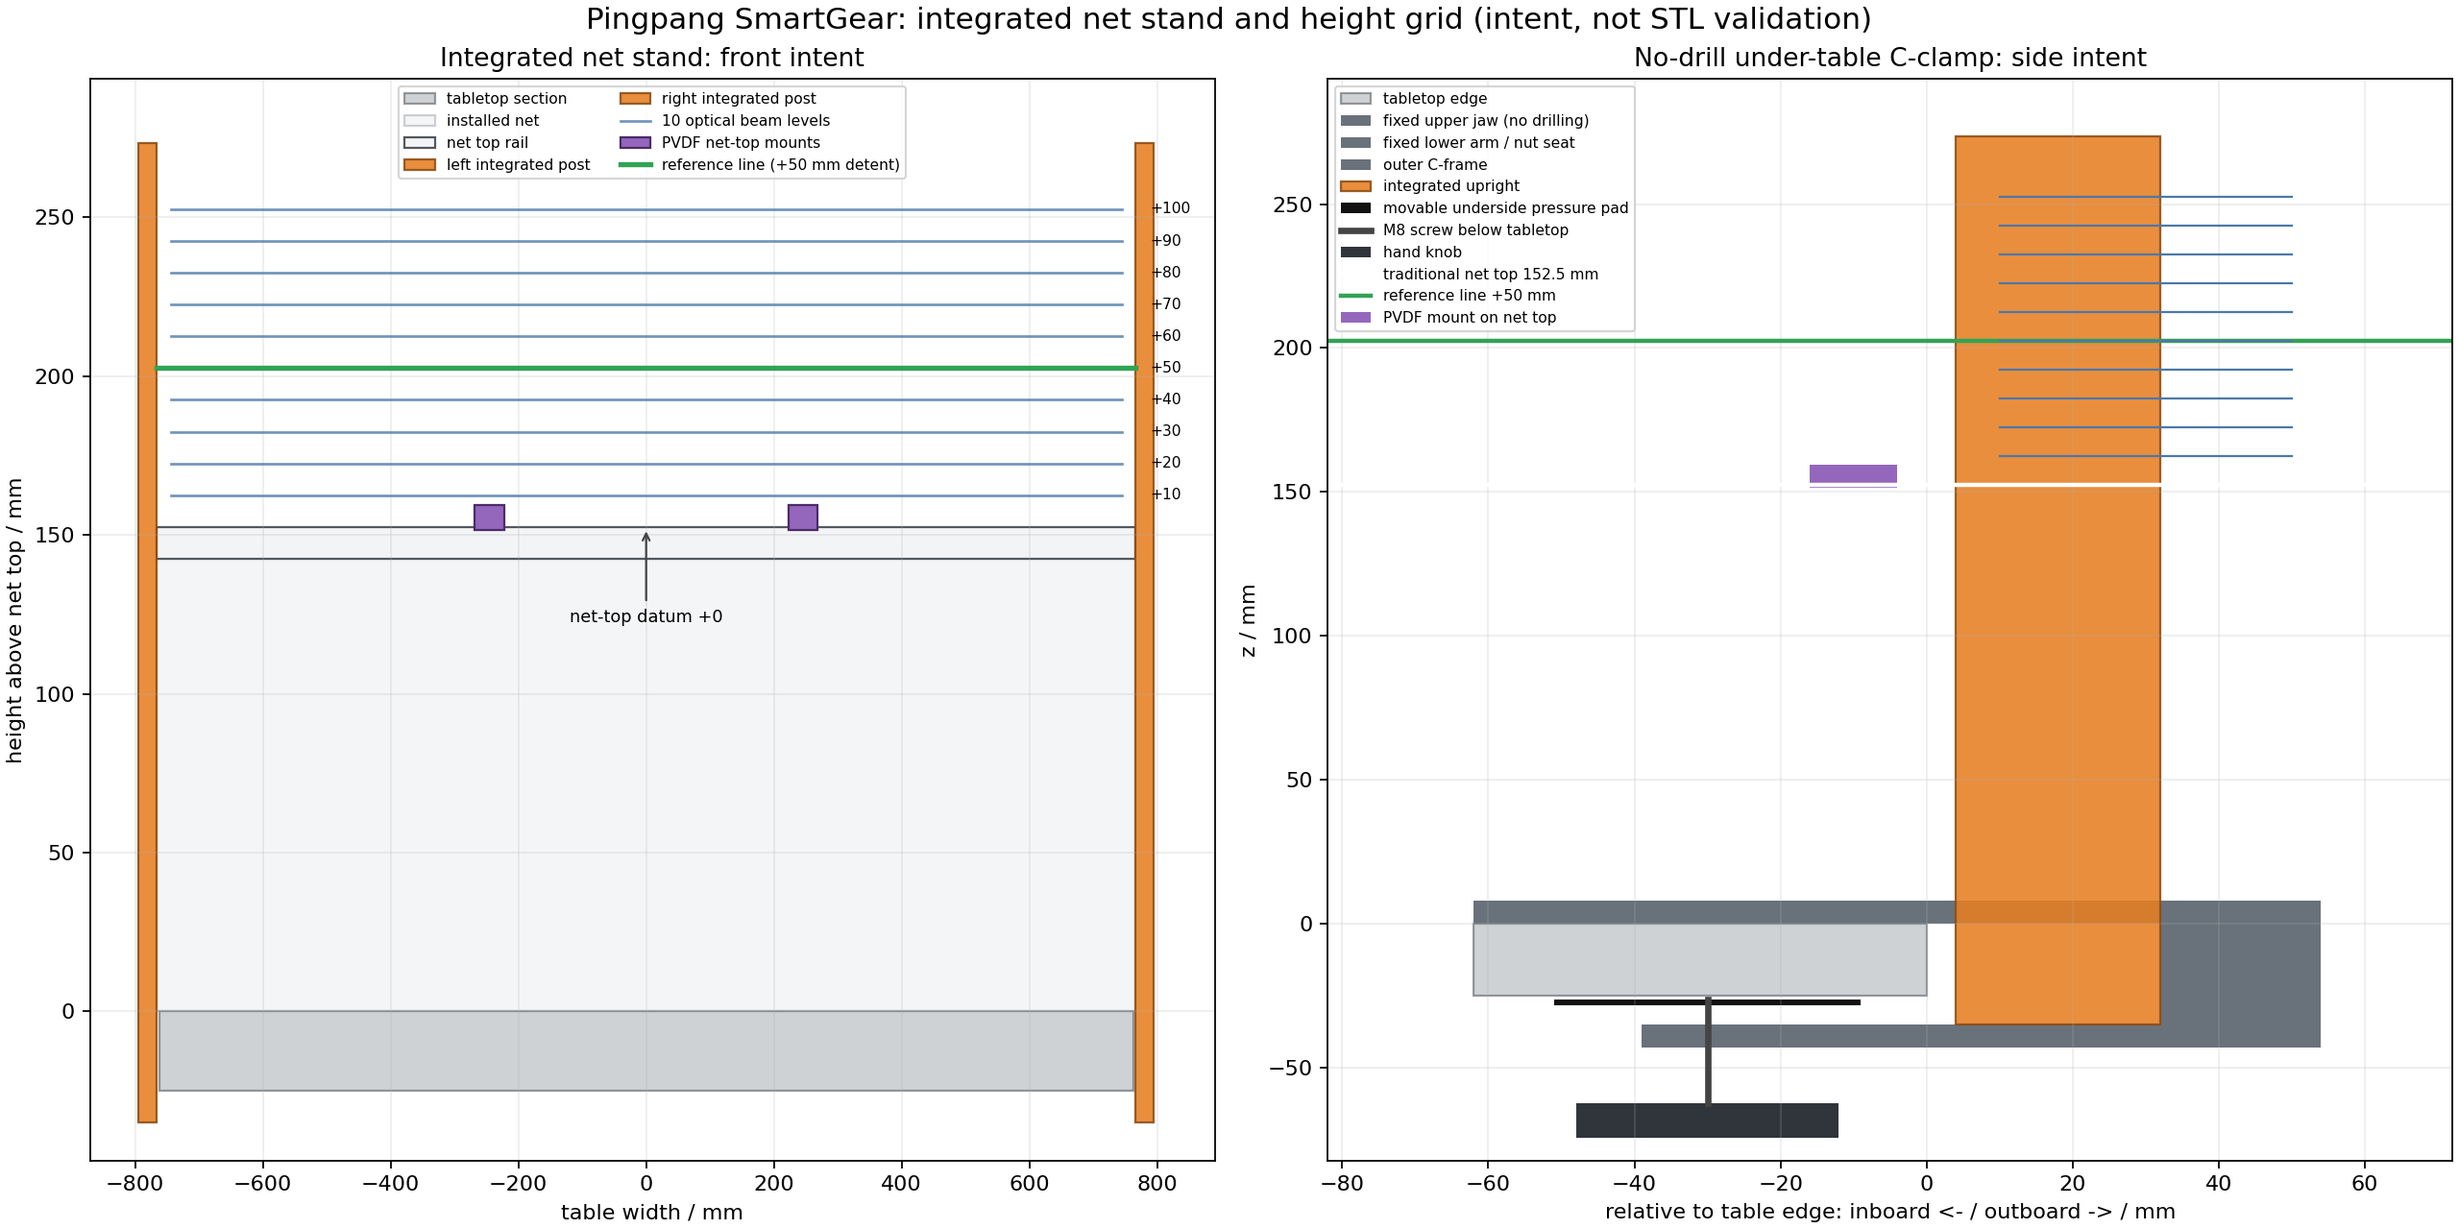
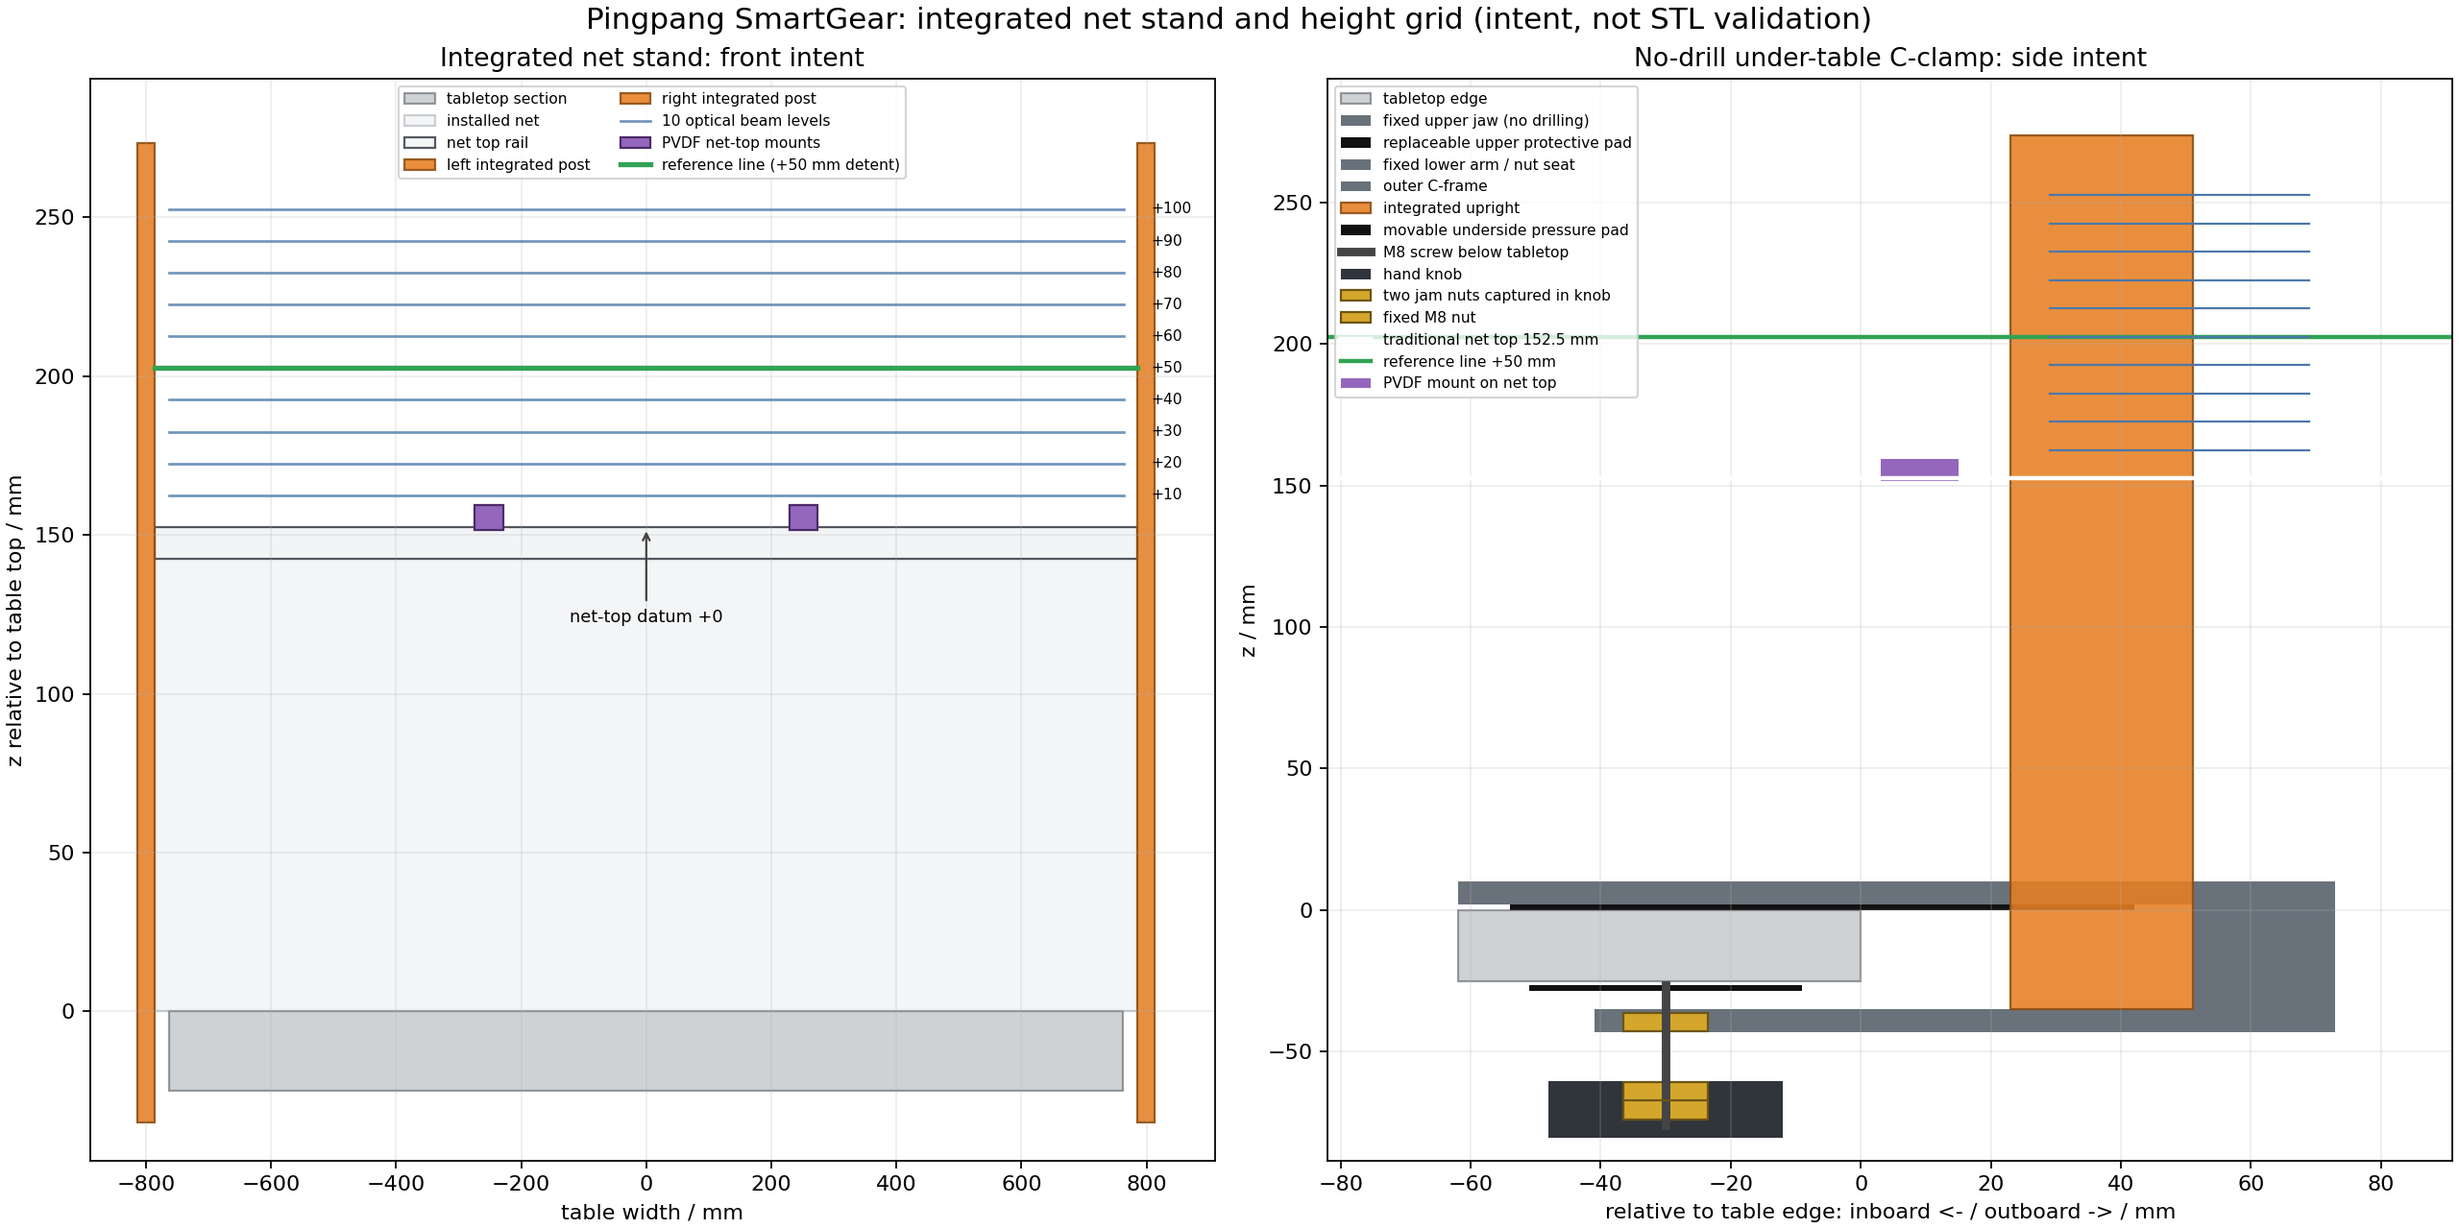
🖼 对齐轻量预览与主模型

diff --git a/hardware/cad/preview.py b/hardware/cad/preview.py
@@ -19,20 +19,53 @@ OUT = ROOT / "preview.png"
 TABLE_WIDTH = 1525.0
 TABLE_THICKNESS = 25.0
 TABLE_EDGE = TABLE_WIDTH / 2
-POST_OFFSET = 18.0
+POST_OFFSET = 37.0
 POST_WIDTH = 28.0
 CLAMP_OUTER_EXTENSION = 22.0
+CLAMP_REACH_INBOARD = 62.0
+CLAMP_PAD_T = 8.0
+CLAMP_CLEARANCE = 1.5
 POST_CENTER = TABLE_EDGE + POST_OFFSET
 CLAMP_SCREW_INSET = 30.0
+CLAMP_SCREW_D = 8.0
+CLAMP_SCREW_CAPTURE_EXTENSION = 2.0
+CLAMP_KNOB_D = 36.0
+CLAMP_KNOB_H = 20.0
+CLAMP_SCREW_TO_KNOB_TOP = 32.0
+CLAMP_NUT_AF = 13.0
+CLAMP_NUT_H = 6.5
+CLAMP_NUT_CLEARANCE = 0.35
+CLAMP_KNOB_NUT_GAP = 0.4
+CLAMP_KNOB_NUT_STACK = 2 * CLAMP_NUT_H + CLAMP_KNOB_NUT_GAP
+CLAMP_TOP_PAD_X = -CLAMP_REACH_INBOARD + 8.0
+CLAMP_TOP_PAD_WIDTH = 96.0
+CLAMP_TOP_PAD_DEPTH = 48.0
+CLAMP_TOP_PAD_T = 2.0
 CLAMP_LOWER_ARM_CLEARANCE = 10.0
 CLAMP_LOWER_ARM_TOP = -TABLE_THICKNESS - CLAMP_LOWER_ARM_CLEARANCE
-CLAMP_LOWER_ARM_BOTTOM = CLAMP_LOWER_ARM_TOP - 8.0
+CLAMP_LOWER_ARM_BOTTOM = CLAMP_LOWER_ARM_TOP - CLAMP_PAD_T
 CLAMP_PRESSURE_PAD_WIDTH = 42.0
-CLAMP_PRESSURE_PAD_TOP = -TABLE_THICKNESS - 1.5
-CLAMP_PRESSURE_PAD_BOTTOM = CLAMP_PRESSURE_PAD_TOP - 2.0
+CLAMP_PRESSURE_PAD_DEPTH = 44.0
+CLAMP_PRESSURE_PAD_T = 2.0
+CLAMP_PRESSURE_PAD_TOP = -TABLE_THICKNESS - CLAMP_CLEARANCE
+CLAMP_PRESSURE_PAD_BOTTOM = CLAMP_PRESSURE_PAD_TOP - CLAMP_PRESSURE_PAD_T
 CLAMP_SCREW_X = -CLAMP_SCREW_INSET
-CLAMP_SCREW_BOTTOM = CLAMP_PRESSURE_PAD_TOP - 36.0
-CLAMP_KNOB_BOTTOM = CLAMP_SCREW_BOTTOM - 12.0
+CLAMP_PAD_X = -CLAMP_REACH_INBOARD
+CLAMP_PAD_OUTER_X = POST_OFFSET + POST_WIDTH / 2 + CLAMP_OUTER_EXTENSION
+CLAMP_OUTER_WALL_X = POST_OFFSET + POST_WIDTH / 2
+CLAMP_LOWER_ARM_X = CLAMP_SCREW_X - 22.0 / 2
+CLAMP_SCREW_TOP = CLAMP_PRESSURE_PAD_BOTTOM
+CLAMP_KNOB_TOP = CLAMP_SCREW_TOP - CLAMP_SCREW_TO_KNOB_TOP
+CLAMP_KNOB_BOTTOM = CLAMP_KNOB_TOP - CLAMP_KNOB_H
+CLAMP_KNOB_NUT_TOP = CLAMP_KNOB_TOP - CLAMP_NUT_CLEARANCE / 2
+CLAMP_KNOB_DRIVE_NUT_Z = CLAMP_KNOB_NUT_TOP - CLAMP_NUT_H
+CLAMP_KNOB_LOCK_NUT_Z = (
+    CLAMP_KNOB_DRIVE_NUT_Z - CLAMP_KNOB_NUT_GAP - CLAMP_NUT_H
+)
+CLAMP_SCREW_BOTTOM = CLAMP_KNOB_LOCK_NUT_Z - CLAMP_SCREW_CAPTURE_EXTENSION
+CLAMP_BODY_NUT_Z = CLAMP_LOWER_ARM_BOTTOM + CLAMP_NUT_CLEARANCE
+OPTICAL_BEAM_EDGE_OVERLAP = 0.5
+OPTICAL_BEAM_AXIS_X = TABLE_EDGE + OPTICAL_BEAM_EDGE_OVERLAP
 POST_BOTTOM = CLAMP_LOWER_ARM_TOP
 NET_HEIGHT = 152.5
 NET_RAIL_HEIGHT = 10.0
@@ -99,7 +132,7 @@ def draw_front(ax) -> None:
     for index in range(BEAM_COUNT):
         height = BEAM_FIRST + index * BEAM_PITCH
         ax.plot(
-            [-NET_SPAN / 2 + POST_WIDTH / 2 + 8, NET_SPAN / 2 - POST_WIDTH / 2 - 8],
+            [-OPTICAL_BEAM_AXIS_X, OPTICAL_BEAM_AXIS_X],
             [NET_HEIGHT + height, NET_HEIGHT + height],
             color="#4c78a8",
             linewidth=1.2,
@@ -146,7 +179,7 @@ def draw_front(ax) -> None:
     ax.set_ylim(POST_BOTTOM - 12, POST_TOP + 20)
     ax.set_title("Integrated net stand: front intent")
     ax.set_xlabel("table width / mm")
-    ax.set_ylabel("height above net top / mm")
+    ax.set_ylabel("z relative to table top / mm")
     ax.grid(True, alpha=0.22)
     handles, labels = ax.get_legend_handles_labels()
     unique = dict(zip(labels, handles))
@@ -156,7 +189,6 @@ def draw_front(ax) -> None:
 def draw_side(ax) -> None:
     # 以右侧台边为 x=0，正方向是桌外；画出免打孔 C 形夹体。
     post_x0 = POST_OFFSET - POST_WIDTH / 2
-    clamp_pad_end = POST_OFFSET + POST_WIDTH / 2 + CLAMP_OUTER_EXTENSION
     ax.add_patch(
         Rectangle(
             (-62, -TABLE_THICKNESS),
@@ -170,27 +202,36 @@ def draw_side(ax) -> None:
     )
     ax.add_patch(
         Rectangle(
-            (-62, 0),
-            clamp_pad_end + 62,
-            8,
+            (CLAMP_PAD_X, CLAMP_TOP_PAD_T),
+            CLAMP_PAD_OUTER_X - CLAMP_PAD_X,
+            CLAMP_PAD_T,
             facecolor="#69727b",
             label="fixed upper jaw (no drilling)",
         )
     )
     ax.add_patch(
         Rectangle(
-            (CLAMP_SCREW_X - 9, CLAMP_LOWER_ARM_BOTTOM),
-            clamp_pad_end - CLAMP_SCREW_X + 9,
-            8,
+            (CLAMP_TOP_PAD_X, 0),
+            CLAMP_TOP_PAD_WIDTH,
+            CLAMP_TOP_PAD_T,
+            facecolor="#111111",
+            label="replaceable upper protective pad",
+        )
+    )
+    ax.add_patch(
+        Rectangle(
+            (CLAMP_LOWER_ARM_X, CLAMP_LOWER_ARM_BOTTOM),
+            CLAMP_PAD_OUTER_X - CLAMP_LOWER_ARM_X,
+            CLAMP_PAD_T,
             facecolor="#69727b",
             label="fixed lower arm / nut seat",
         )
     )
     ax.add_patch(
         Rectangle(
-            (post_x0 + POST_WIDTH, CLAMP_LOWER_ARM_BOTTOM),
+            (CLAMP_OUTER_WALL_X, CLAMP_LOWER_ARM_BOTTOM),
             CLAMP_OUTER_EXTENSION,
-            51,
+            CLAMP_PAD_T + CLAMP_TOP_PAD_T + TABLE_THICKNESS + CLAMP_LOWER_ARM_CLEARANCE,
             facecolor="#69727b",
             label="outer C-frame",
         )
@@ -210,7 +251,7 @@ def draw_side(ax) -> None:
         Rectangle(
             (CLAMP_SCREW_X - CLAMP_PRESSURE_PAD_WIDTH / 2, CLAMP_PRESSURE_PAD_BOTTOM),
             CLAMP_PRESSURE_PAD_WIDTH,
-            2,
+            CLAMP_PRESSURE_PAD_T,
             facecolor="#111111",
             label="movable underside pressure pad",
         )
@@ -219,16 +260,43 @@ def draw_side(ax) -> None:
         [CLAMP_SCREW_X, CLAMP_SCREW_X],
         [CLAMP_SCREW_BOTTOM, CLAMP_PRESSURE_PAD_TOP],
         color="#444",
-        linewidth=3,
+        linewidth=CLAMP_SCREW_D / 2,
         label="M8 screw below tabletop",
     )
     ax.add_patch(
         Rectangle(
-            (CLAMP_SCREW_X - 18, CLAMP_KNOB_BOTTOM),
-            36,
-            12,
+            (CLAMP_SCREW_X - CLAMP_KNOB_D / 2, CLAMP_KNOB_BOTTOM),
+            CLAMP_KNOB_D,
+            CLAMP_KNOB_H,
             facecolor="#30343b",
             label="hand knob",
+        )
+    )
+    ax.add_patch(
+        Rectangle(
+            (CLAMP_SCREW_X - CLAMP_NUT_AF / 2, CLAMP_KNOB_LOCK_NUT_Z),
+            CLAMP_NUT_AF,
+            CLAMP_KNOB_NUT_STACK,
+            facecolor="#d4a72c",
+            edgecolor="#6e5515",
+            label="two jam nuts captured in knob",
+        )
+    )
+    ax.plot(
+        [CLAMP_SCREW_X - CLAMP_NUT_AF / 2,
+         CLAMP_SCREW_X + CLAMP_NUT_AF / 2],
+        [CLAMP_KNOB_DRIVE_NUT_Z, CLAMP_KNOB_DRIVE_NUT_Z],
+        color="#6e5515",
+        linewidth=1,
+    )
+    ax.add_patch(
+        Rectangle(
+            (CLAMP_SCREW_X - CLAMP_NUT_AF / 2, CLAMP_BODY_NUT_Z),
+            CLAMP_NUT_AF,
+            CLAMP_NUT_H,
+            facecolor="#d4a72c",
+            edgecolor="#6e5515",
+            label="fixed M8 nut",
         )
     )
     ax.axhline(NET_HEIGHT, color="#ffffff", linewidth=2, label="traditional net top 152.5 mm")
@@ -250,7 +318,7 @@ def draw_side(ax) -> None:
             label="PVDF mount on net top",
         )
     )
-    ax.set_xlim(-82, clamp_pad_end + 18)
+    ax.set_xlim(-82, CLAMP_PAD_OUTER_X + 18)
     ax.set_ylim(CLAMP_KNOB_BOTTOM - 8, POST_TOP + 20)
     ax.set_title("No-drill under-table C-clamp: side intent")
     ax.set_xlabel("relative to table edge: inboard <- / outboard -> / mm")

diff --git a/hardware/cad/test_preview_consistency.py b/hardware/cad/test_preview_consistency.py
@@ -1,0 +1,78 @@
+#!/usr/bin/env python3
+"""Keep the dependency-free intent preview aligned with the SCAD source."""
+
+from __future__ import annotations
+
+import re
+from pathlib import Path
+
+
+HERE = Path(__file__).resolve().parent
+SCAD = HERE / "net_stand.scad"
+PREVIEW = HERE / "preview.py"
+
+# These are the direct, first-article geometry values that the lightweight
+# preview must mirror. Derived coordinates are intentionally checked by the
+# OpenSCAD validator; this test prevents the two visual entry points from
+# silently diverging on the design boundary itself.
+PARAMETER_MAP = {
+    "TABLE_WIDTH": "table_width",
+    "TABLE_THICKNESS": "table_thickness",
+    "POST_OFFSET": "post_offset",
+    "POST_WIDTH": "post_body_width",
+    "CLAMP_OUTER_EXTENSION": "clamp_outer_extension",
+    "CLAMP_REACH_INBOARD": "clamp_reach_inboard",
+    "CLAMP_PAD_T": "clamp_pad_t",
+    "CLAMP_CLEARANCE": "clamp_clearance",
+    "CLAMP_SCREW_INSET": "clamp_screw_inset",
+    "CLAMP_KNOB_D": "clamp_knob_d",
+    "CLAMP_KNOB_H": "clamp_knob_h",
+    "CLAMP_SCREW_TO_KNOB_TOP": "clamp_screw_to_knob_top",
+    "CLAMP_NUT_AF": "clamp_nut_af",
+    "CLAMP_NUT_H": "clamp_nut_h",
+    "CLAMP_NUT_CLEARANCE": "clamp_nut_clearance",
+    "CLAMP_KNOB_NUT_GAP": "clamp_knob_nut_gap",
+    "CLAMP_LOWER_ARM_CLEARANCE": "clamp_lower_arm_clearance",
+    "CLAMP_PRESSURE_PAD_WIDTH": "clamp_pressure_pad_width",
+    "CLAMP_PRESSURE_PAD_T": "clamp_pressure_pad_t",
+}
+
+
+def direct_assignments(path: Path) -> dict[str, float]:
+    values: dict[str, float] = {}
+    pattern = re.compile(
+        r"^\s*([A-Za-z_]\w*)\s*=\s*([-+]?\d+(?:\.\d*)?(?:[eE][-+]?\d+)?)"
+    )
+    for line in path.read_text(encoding="utf-8").splitlines():
+        match = pattern.match(line)
+        if match:
+            values[match.group(1)] = float(match.group(2))
+    return values
+
+
+def main() -> None:
+    scad_values = direct_assignments(SCAD)
+    preview_values = direct_assignments(PREVIEW)
+    missing_scad = sorted(set(PARAMETER_MAP.values()) - set(scad_values))
+    missing_preview = sorted(set(PARAMETER_MAP) - set(preview_values))
+    if missing_scad or missing_preview:
+        raise AssertionError(
+            f"preview parameter coverage missing: scad={missing_scad}, "
+            f"preview={missing_preview}"
+        )
+
+    mismatches = []
+    for preview_name, scad_name in PARAMETER_MAP.items():
+        if preview_values[preview_name] != scad_values[scad_name]:
+            mismatches.append(
+                f"{preview_name}={preview_values[preview_name]} "
+                f"!= {scad_name}={scad_values[scad_name]}"
+            )
+    if mismatches:
+        raise AssertionError("preview/SCAD parameter mismatch: " + "; ".join(mismatches))
+
+    print(f"PREVIEW_CONSISTENCY_OK ({len(PARAMETER_MAP)} direct parameters)")
+
+
+if __name__ == "__main__":
+    main()

diff --git a/docs/implementation-audit.zh-CN.md b/docs/implementation-audit.zh-CN.md
@@ -16,7 +16,7 @@
 | 传输边界 | `NetEventDelivery` 支持断链缓存、有界覆盖、顺序补发、发送失败后保留事件；ESP32-S3 通过 `net_event_transport.h` 的两个弱 C hook 接 SmartPaddle 现有连接层；具体 `/ws` 适配示例与当前引脚冲突见 [`smartpaddle-integration-v0.1.zh-CN.md`](smartpaddle-integration-v0.1.zh-CN.md)。 |
 | 固件构建 | ESP-IDF 5.5.1 / ESP32-S3 实际 `reconfigure + build` 通过，应用分区仍有余量。 |
 | 契约与回归 | JSON Schema 正例/反例、CMake/CTest、ASan/UBSan 主机测试和可视预览均通过。 Schema 还限制 UUID-like `event_id`、10 mm 离散高度档位、每个 1…1023 光栅位图与最低/最高命中档位及球底间隔的对应关系、`touch_no_cross` 无光栅命中及擦网状态与传感器位图一致；主机测试遍历全部 1…1023 光栅位图，并由 `test_runtime_chain_with_delivery()` 串起比较器→ADC 波形→光栅归并→NetEvent JSON→断链缓存/补发。 |
-| 实体几何可视证据 | `render_net_stand_preview.py` 从 `net_stand.scad` 渲染当前装配、左右支架、桌下夹持、桌板剖面免打孔受力路径、带孔旋钮、可打印光学导轨、光学装配预览、单个光学载台、PVDF 安装座和标定规；旧 `render_openscad_preview.py` 单独保留历史方案渲染。两套渲染均由 CI 作为 artifact 保存。 |
+| 实体几何可视证据 | `preview.py` 生成无 OpenSCAD 的当前意图图，`test_preview_consistency.py` 对照 `net_stand.scad` 检查 19 个直接首样参数；`render_net_stand_preview.py` 从 `net_stand.scad` 渲染当前装配、左右支架、桌下夹持、桌板剖面免打孔受力路径、带孔旋钮、可打印光学导轨、光学装配预览、单个光学载台、PVDF 安装座和标定规；旧 `render_openscad_preview.py` 单独保留历史方案渲染。两套渲染均由 CI 作为 artifact 保存。 |
 | 现场证据门 | `docs/field-validation-record-v0.1.schema.json` 与 `tools/validate_field_record.py` 要求全部 M/B/S/T/E 编号存在；只有 `pending` 可以没有证据，`pass/fail` 必须引用 `evidence_root` 下真实文件；模板当前 19 项全部保持 `pending`，不冒充实机通过；逐项主机覆盖与实物缺口见 [`validation-coverage-v0.1.zh-CN.md`](validation-coverage-v0.1.zh-CN.md)。 |
 | 可运行轨迹回放 | `firmware/host-tests/trace_replay.cpp` 读取固定 CSV，实际跑过光栅/PVDF/短波形采集/事件归并并输出 3 个 Schema 合法事件，`touch_over` 保留波形引用和持续时间；主机单元测试另覆盖“比较器先到、DMA 迟到预触发/后触发、完整帧回填后归并为 `touch_over`”的整条顺序路径；板级 hook 和实物记录边界见 `sensor-interface-v0.1.zh-CN.md` 与现场记录模板。 |
 | 外部回放关联工具 | `tools/correlate_net_events.py` 支持 NetEvent JSONL/`JSON_EVENT` 行、外部时间标记 CSV、明确的微秒偏移和包含边界的匹配窗口；`tools/test_correlate_net_events.py` 覆盖偏移、窗口边界、默认元数据和畸形输入。它只做时间戳关联，不把外部视频结果当作本体判定。 |

diff --git a/hardware/cad/README.md b/hardware/cad/README.md
@@ -59,10 +59,11 @@ python3 test_export_net_stand_printables.py
 
 ```text
 python3 validate_net_stand.py
+python3 test_preview_consistency.py
 python3 render_net_stand_preview.py
 ```
 
-前者编译当前 `PART`、左右支架、桌板剖面夹持证据、下段立柱+夹体一体件、可打印光学导轨、光学镜像/单个载台、圆头螺杆/固定下臂 M8 螺母/旋钮内两枚对锁螺母、参数探针、18/25/30 mm 台厚免打孔夹持矩阵和非法参数路径；除 `assembly`、左右单侧结构、`post`、`table_clamp`、`net_rail`、`optical_strip` 等装配/渲染预览外，成功导出的独立打印零件还会做 STL 封闭边拓扑检查。装配预览允许桌板、网布和电子/标准件包络重叠，只用于 PNG，不是打印件。后者从同一份参数源渲染当前装配、左右支架、桌下夹持及其桌板剖面、圆头螺杆、固定螺母和对锁螺母叠层、带捕获窝旋钮、可打印光学导轨、光学装配预览、单个载台、PVDF 座和标定规，输出到 `rendered/net-stand-*.png`。CI 会把当前和历史两套渲染证据分别保存。
+`test_preview_consistency.py` 不需要 OpenSCAD，用于防止无 OpenSCAD 的轻量意图图继续沿用旧外挂夹具的关键参数；`validate_net_stand.py` 编译当前 `PART`、左右支架、桌板剖面夹持证据、下段立柱+夹体一体件、可打印光学导轨、光学镜像/单个载台、圆头螺杆/固定下臂 M8 螺母/旋钮内两枚对锁螺母、参数探针、18/25/30 mm 台厚免打孔夹持矩阵和非法参数路径；除 `assembly`、左右单侧结构、`post`、`table_clamp`、`net_rail`、`optical_strip` 等装配/渲染预览外，成功导出的独立打印零件还会做 STL 封闭边拓扑检查。装配预览允许桌板、网布和电子/标准件包络重叠，只用于 PNG，不是打印件。后者从同一份参数源渲染当前装配、左右支架、桌下夹持及其桌板剖面、圆头螺杆、固定螺母和对锁螺母叠层、带捕获窝旋钮、可打印光学导轨、光学装配预览、单个载台、PVDF 座和标定规，输出到 `rendered/net-stand-*.png`。CI 会把当前和历史两套渲染证据分别保存。
 
 ## 历史方案
 
